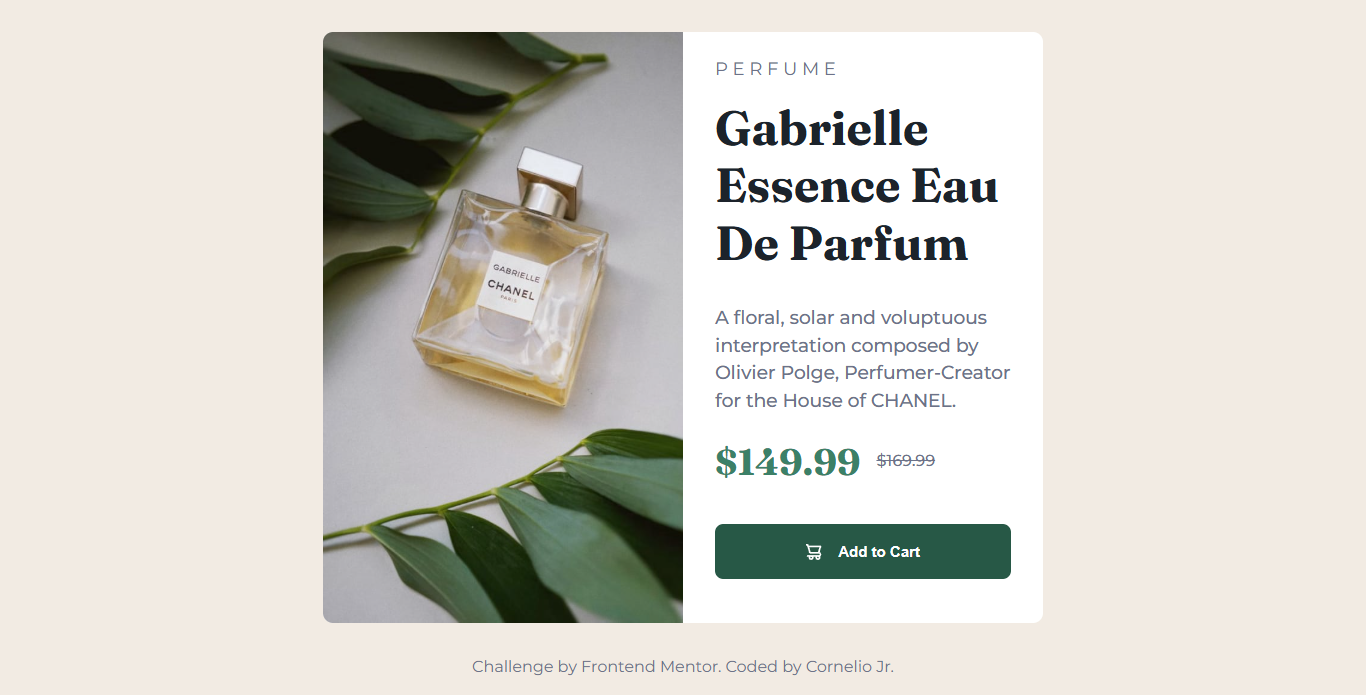
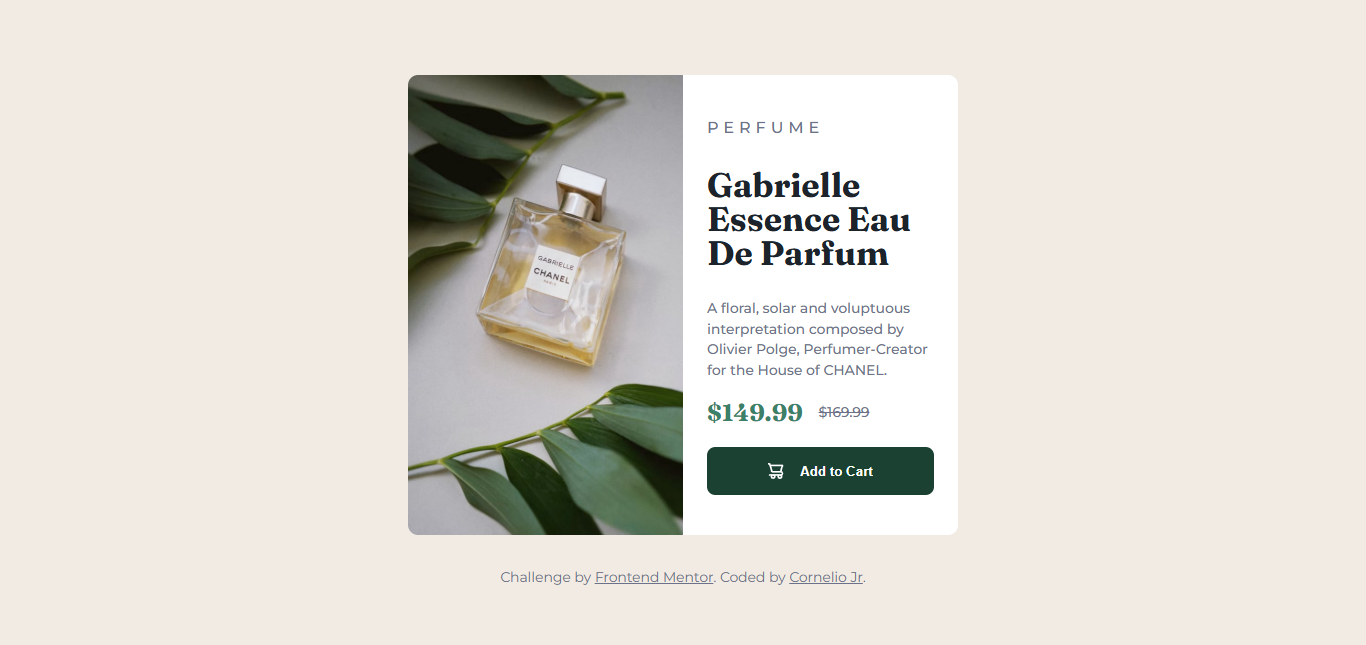
Style: updating clean codes, and remove uncessary syntax

diff --git a/src/components/Product-Preview.vue b/src/components/Product-Preview.vue
@@ -9,7 +9,7 @@ import addtoCartIcon from '/icon-cart.svg';
     <header>
       <div class="image-container">
         <picture>
-        <source :srcset="desktopImg" media="(min-width: 48rem)" />
+        <source :srcset="desktopImg" media="(min-width: 37.5rem)" />
         <img 
         :src="mobileImg" 
         alt="Elegant parfume box" 
@@ -19,20 +19,16 @@ import addtoCartIcon from '/icon-cart.svg';
       </div>
     </header>
     <div class="product_info">
-     <main>
-        <section>PERFUME</section>
-        <h1>Gabrielle Essence Eau De Parfum</h1>
-
-        <p class="description">A floral, solar and voluptuous interpretation composed by Olivier Polge, 
-          Perfumer-Creator for the House of CHANEL.
-        </p>
-     </main>
-     <main>
-        <div class="price-container">
-          <span class="current-price">$149.99</span>
-          <span class="original-price">$169.99</span>
-        </div>
-      </main>
+      <h3 class="category-name">PERFUME</h3>
+      <h2>Gabrielle Essence Eau De Parfum</h2>
+      <p class="description">
+        A floral, solar and voluptuous interpretation composed by Olivier Polge, 
+        Perfumer-Creator for the House of CHANEL.
+      </p>
+      <div class="price-container">
+        <span class="current-price">$149.99</span>
+        <span class="original-price">$169.99</span>
+      </div>
       <button class="add-to-cart">
         <img :src="addtoCartIcon" alt="cart icon"/>
         <span>Add to Cart</span>
@@ -55,27 +51,24 @@ import addtoCartIcon from '/icon-cart.svg';
   flex-direction: column;
   background-color: var(--neutral-color-white);
   border-radius: 0.625rem; 
-  overflow: hidden ;
-  margin: 2rem ;
-  max-width: 45em;
+  overflow: hidden;
+  margin: 2rem;
+  max-width: 34.375rem;
 }
-
 .product_info {
   padding: 1.5rem;
 }
 
-.product_info section {
+.category-name{
   text-transform: uppercase;
-  font-size: clamp(1rem, 0.956rem + 0.1878vw, 1.125rem);
   letter-spacing: 0.3rem;
   color: var(--neutral-color-gray);
+  font-weight: var(--montserrat-font-weight-medium);
 }
-.price-container{
-  margin: 1rem 0;
-}
+
 .current-price { 
   color: var(--primary-color-500);
-  font-size: clamp(1.7rem, 1.5rem + 2vw, 2.3rem);
+  font-size: clamp(1.125rem, 1.2rem + 1vw, 1.5rem);
   font-weight: var(--montserrat-font-weight-bold);
   font-family: var(--fraunces-font);
   vertical-align: middle;
@@ -101,7 +94,6 @@ import addtoCartIcon from '/icon-cart.svg';
   text-decoration: none;
 }
 .description{
-    font-size: clamp(1.125rem,  1rem + 0.1878vw, 2.5rem);
     font-weight: var(--montserrat-font-weight-medium);
  }
 .add-to-cart{
@@ -115,8 +107,8 @@ import addtoCartIcon from '/icon-cart.svg';
   padding: 0.75rem 1.5rem;
   cursor: pointer;
   transition: background-color 0.4s ease-in-out;
-  margin: 1.2rem 0;
-  padding: 1.2rem;
+  margin: 1rem 0;
+  padding: 1rem;
 }
 
 .add-to-cart:hover {
@@ -124,7 +116,6 @@ import addtoCartIcon from '/icon-cart.svg';
 }
 
 .add-to-cart span{
-  font-size: 0.938rem;
   vertical-align: middle;
   font-weight: var(--montserrat-font-weight-bold);
 }
@@ -138,19 +129,16 @@ import addtoCartIcon from '/icon-cart.svg';
   transition: filter 0.3s ease-in-out;
 }
 
-@media (min-width: 48rem) {
+@media (min-width: 37.5rem) {
   .product-container{
     display: grid;
     grid-template-columns: repeat(2, 1fr);
   }
-  .product_info{
-    padding-inline: 2rem;
-  }
+
   .image-container{
     width: 100%;
     height: 100%;
   }
 
 }
-
 </style>

diff --git a/src/style.css b/src/style.css
@@ -12,21 +12,23 @@
   --neutral-color-white: hsl(0, 0%, 100%);
 
   
-  --h1-font-size: clamp(1.625rem, 1.5rem + 2vw, 3rem);
-
+  --h2-font-size: clamp(1.5rem, 1.2799rem + 2vw, 2.125rem);
+  --body-font-size:  clamp(0.75rem, 0.706rem + 0.1878vw, 0.875rem);
+  
   --montserrat-font: "Montserrat", sans-serif;
   --montserrat-font-weight: normal;
   --montserrat-font-weight-medium: 500;
   --montserrat-font-weight-bold: 700;
 
-  --fraunces-font: "Fraunces", serif;
+  --fraunces-font: "Fraunces", sans-serif;
   --fraunces-font-weight-bold: 700;
-} 
+}
+
 
 *, *::before, *::after {
   box-sizing: border-box;
 }
-
+ 
 body, html{
   margin: 0;
   padding: 0;
@@ -45,7 +47,7 @@ body{
   min-height: 100vh;
   line-height: 1.5;
   font-weight: var(--montserrat-font-weight);
-  font-size: 1rem;
+  font-size: var(--body-font-size);
   transition: all 0.3s ease-in-out;
 }
 
@@ -57,7 +59,7 @@ iframe,
   inline-size: auto;
   object-fit: cover;
   object-position: top center;
-  aspect-ratio: 1/1;
+  aspect-ratio: 2/1;
   cursor: pointer;
 }
 
@@ -66,11 +68,10 @@ picture img{
   width: 100%;
   height: 100%;
 }
-h1{
+h2{
   font-family: var(--fraunces-font);
   font-weight: var(--fraunces-font-weight-bold);
-  font-size: var(--h1-font-size);
-  line-height: 1.2;
-  margin-top: 1rem;
+  font-size: var(--h2-font-size);
+  line-height: 1;
   color: var(--neutral-color-black);
 }

diff --git a/src/App.vue b/src/App.vue
@@ -3,5 +3,8 @@ import ProductPreview from './components/Product-Preview.vue'
 </script>
 
 <template>
-    <ProductPreview/>
+  <main>
+  <ProductPreview/>
+  </main>
+    
 </template>
